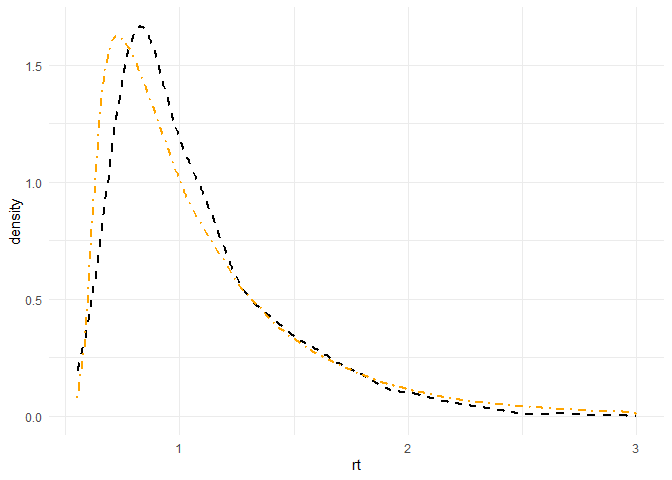
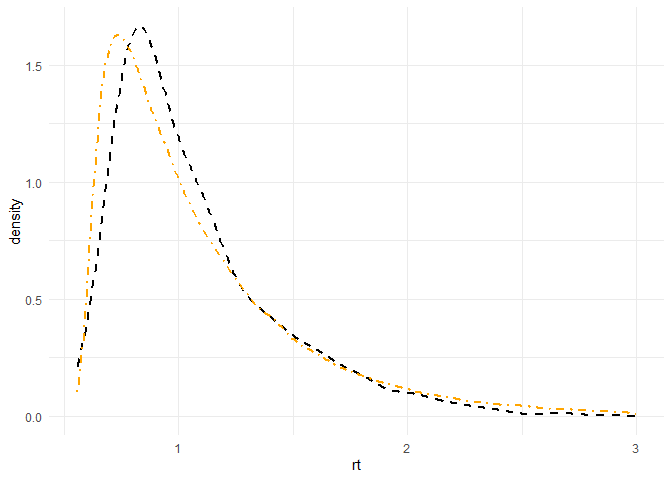
CAF PPC failure

diff --git a/README.md b/README.md
@@ -482,10 +482,58 @@ ggplot() +
 
 ![](README_files/figure-commonmark/unnamed-chunk-10-1.png)
 
+That is not too bad! Let’s look at another one:
+
+``` r
+# Get participant & valid trials
+Pdat <- MyData[pp==15&yi==1]
+Psim <- SIM[p==15&rt>0.1&rt<3.0]
+
+# Plot RT distributions
+ggplot() +
+  geom_density(data=Pdat,aes(x=rt),linetype="dashed",linewidth=1) +
+  geom_density(data=Psim,aes(x=rt),linetype="dotdash",linewidth=1,color="orange") +
+  theme_minimal()
+```
+
+![](README_files/figure-commonmark/unnamed-chunk-11-1.png)
+
+That is not too great… Unfortunately quite common with the DDM.
+
 ### PPC of the CAF
 
-We can get a posterior distribution over the CAF points, and compare
-that to the empirical CAF
+We can get a posterior distribution over the CAF points:
+
+``` r
+# Get simulated CAF
+CAFlist <- list()
+for(simje in 1:SIM[,max(sim)]){
+  CAFlist[[simje]] <- calculate_group_caf(SIM[sim==simje&rt>0.1&rt<3.0], "rt", "correct", "p", num_bins=7)
+}
+CAF_sim <- rbindlist(CAFlist)
+
+# Get posterior over CAF points
+CAF_ppc <- CAF_sim[,list(min_rt = bayestestR::hdi(mean_rt)$CI_low,
+                         max_rt = bayestestR::hdi(mean_rt)$CI_high,
+                         med_rt = median(mean_rt),
+                         min_ac = bayestestR::hdi(mean_acc)$CI_low,
+                         max_ac = bayestestR::hdi(mean_acc)$CI_high,
+                         med_ac = median(mean_acc)),
+        by=rt_bin]
+
+# Plot
+ggplot(CAF_ppc, aes(xmin=min_rt,xmax=max_rt,x=med_rt,y=med_ac,ymin=min_ac,ymax=max_ac)) +
+  geom_line() +
+  geom_errorbar() + 
+  geom_errorbarh() +
+  theme_minimal() +
+  xlab("RT") + ylab("Accuracy")
+```
+
+![](README_files/figure-commonmark/unnamed-chunk-12-1.png)
+
+It seems like we are capturing fast errors, but not slow errors with
+this model…
 
 ### PPC of clustered errors
 